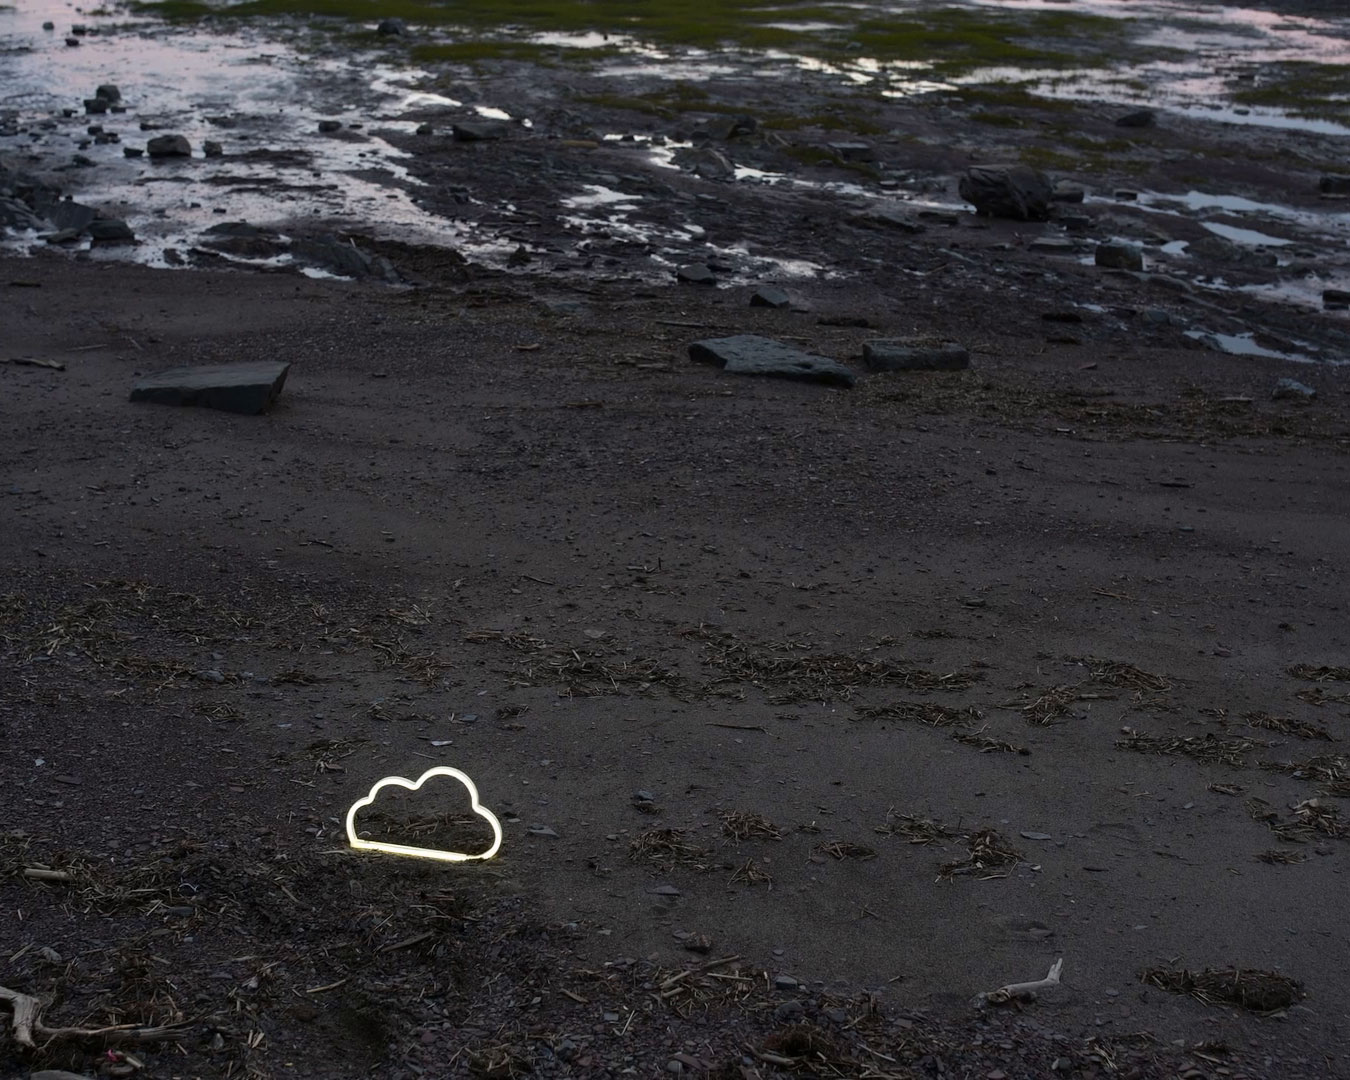
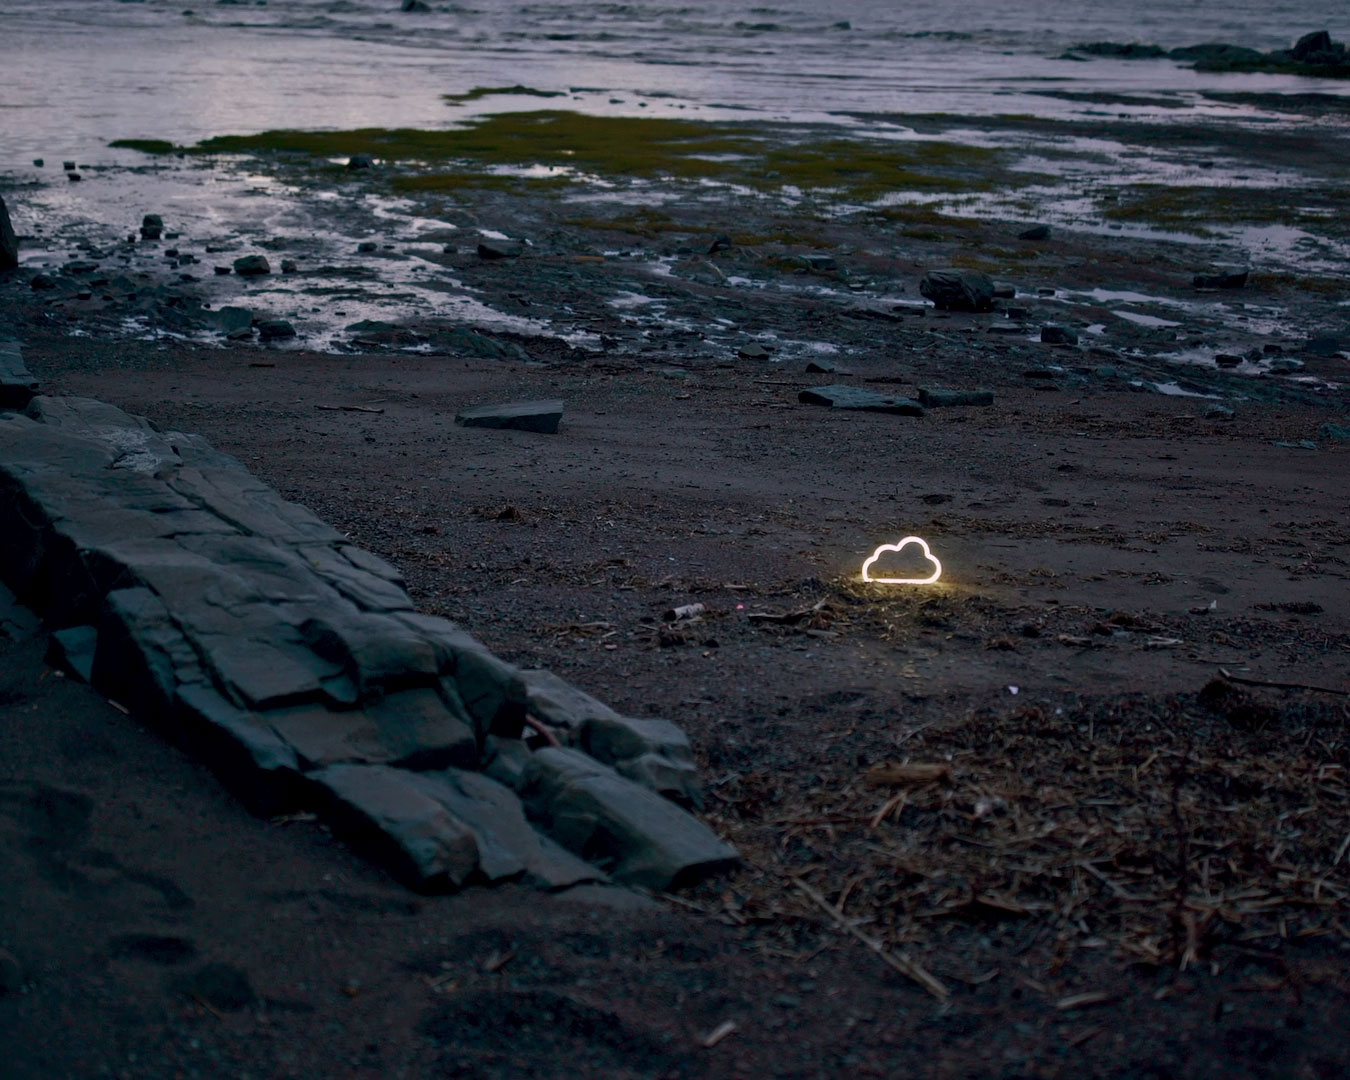
corrections

diff --git a/untitled_always-fr.html b/untitled_always-fr.html
@@ -69,10 +69,13 @@ img {
 
 <img src="2023_untitled_always1.jpg" alt="Crepuscular Line" width="850" height="478"> </p>
 <br></br>
+<img src="2023_untitled_always2.jpg" alt="Crepuscular Line" width="850" height="478"> </p>
+<br></br>
 <br></br>
     <p><i>Sans titre (always)</i>, 2023
     <p>Travail en processus<p/>
     <p>Vidéo HD, son stéréo</p>
+    <p>Images fixes tirées de la vidéo</p>
 
 <br></br>
 <br></br>

diff --git a/untitled_always-en.html b/untitled_always-en.html
@@ -92,10 +92,13 @@ img {
 
 <img src="2023_untitled_always1.jpg" alt="Crepuscular Line" width="850" height="478"> </p>
 <br></br>
+<img src="2023_untitled_always2.jpg" alt="Crepuscular Line" width="850" height="478"> </p>
+<br></br>
 <br></br>
     <p><i>Untitled (always)</i>, 2023
     <p>Work in progress<p/>
     <p>Video HD, sound stereo</p>
+    <p>Still frames</p>
 
 <br></br>
 <br></br>
